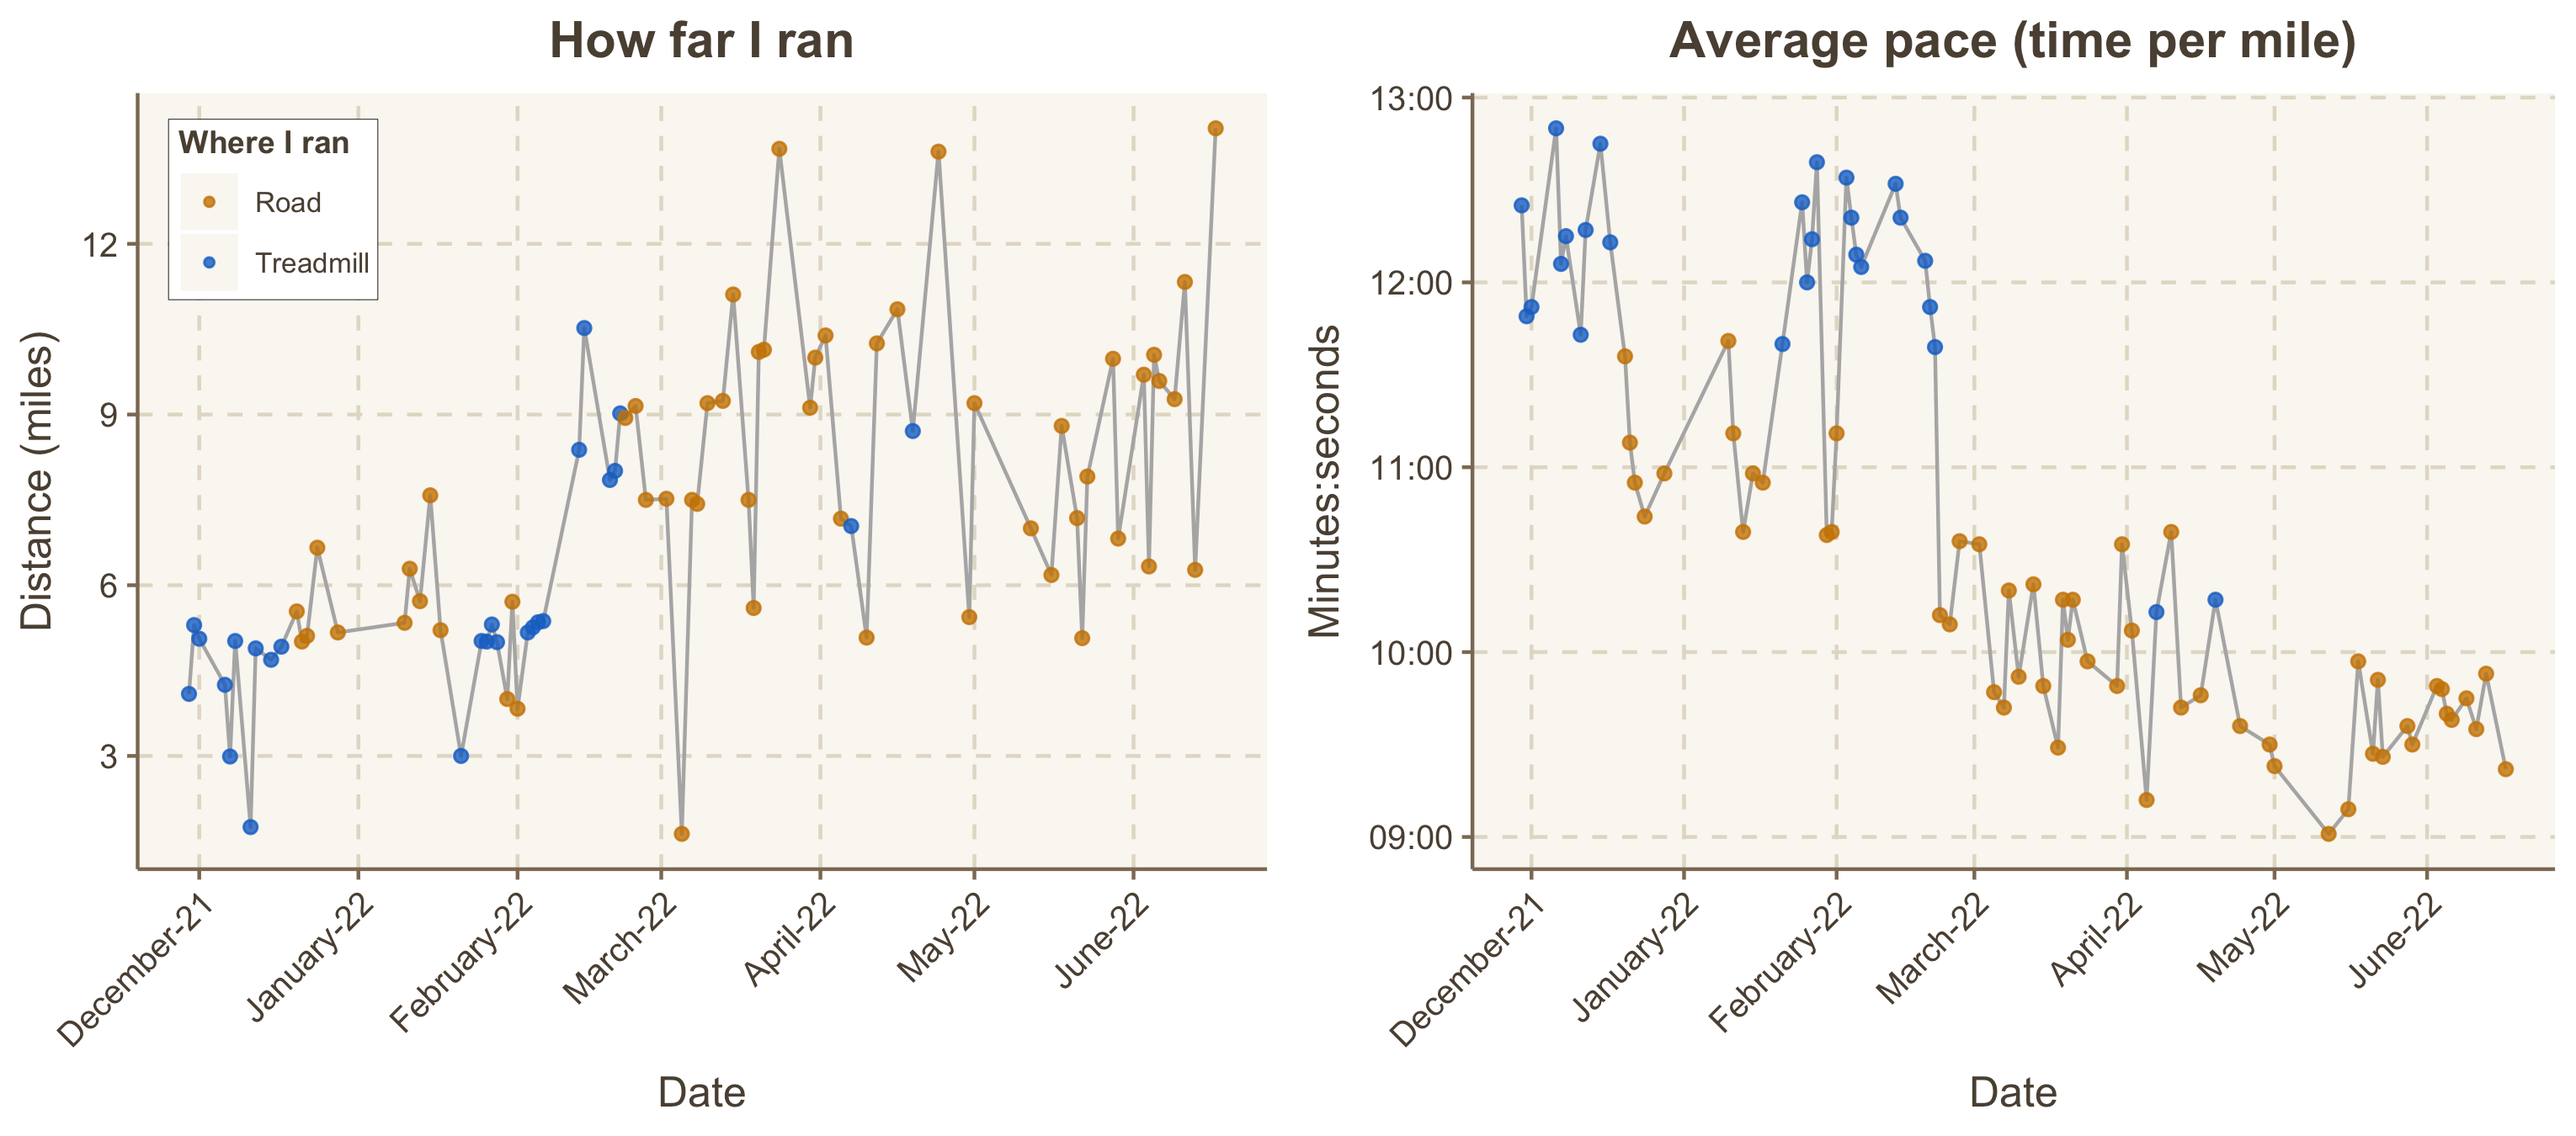
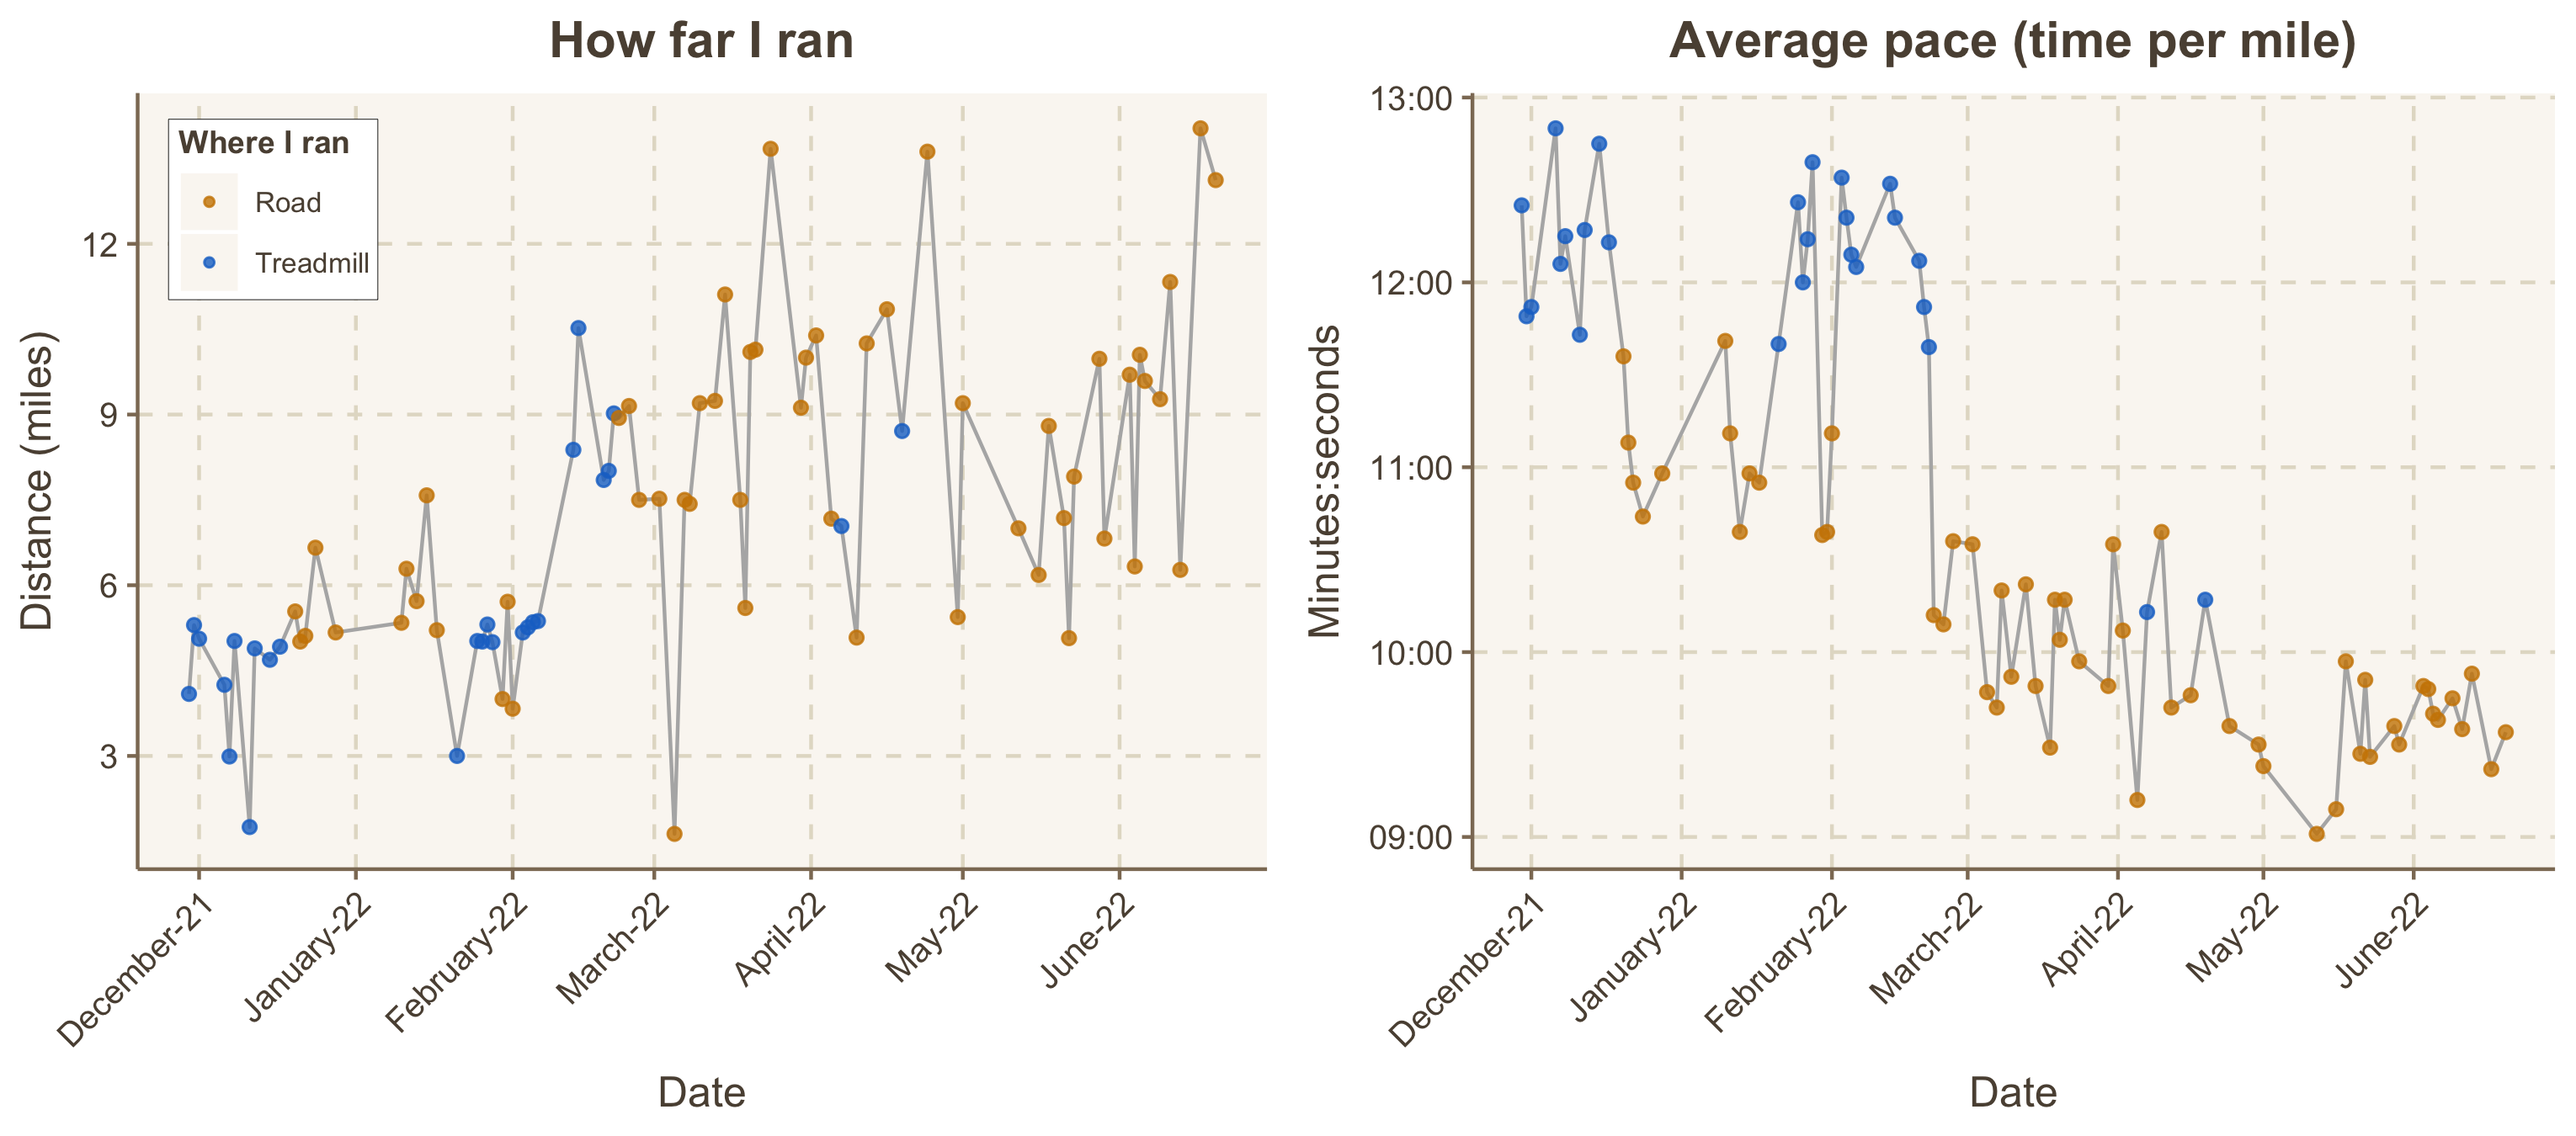
6/20/22

diff --git a/README.md b/README.md
@@ -25,7 +25,7 @@ ggarrange(p1, p2, nrow=1)
 sum(runningData$Miles)
 ```
 
-    ## [1] 571.01
+    ## [1] 584.13
 
 Average distance during the last 10 runs:
 
@@ -33,4 +33,4 @@ Average distance during the last 10 runs:
 mean(tail(runningData$Miles, 10))
 ```
 
-    ## [1] 9.337
+    ## [1] 9.651
